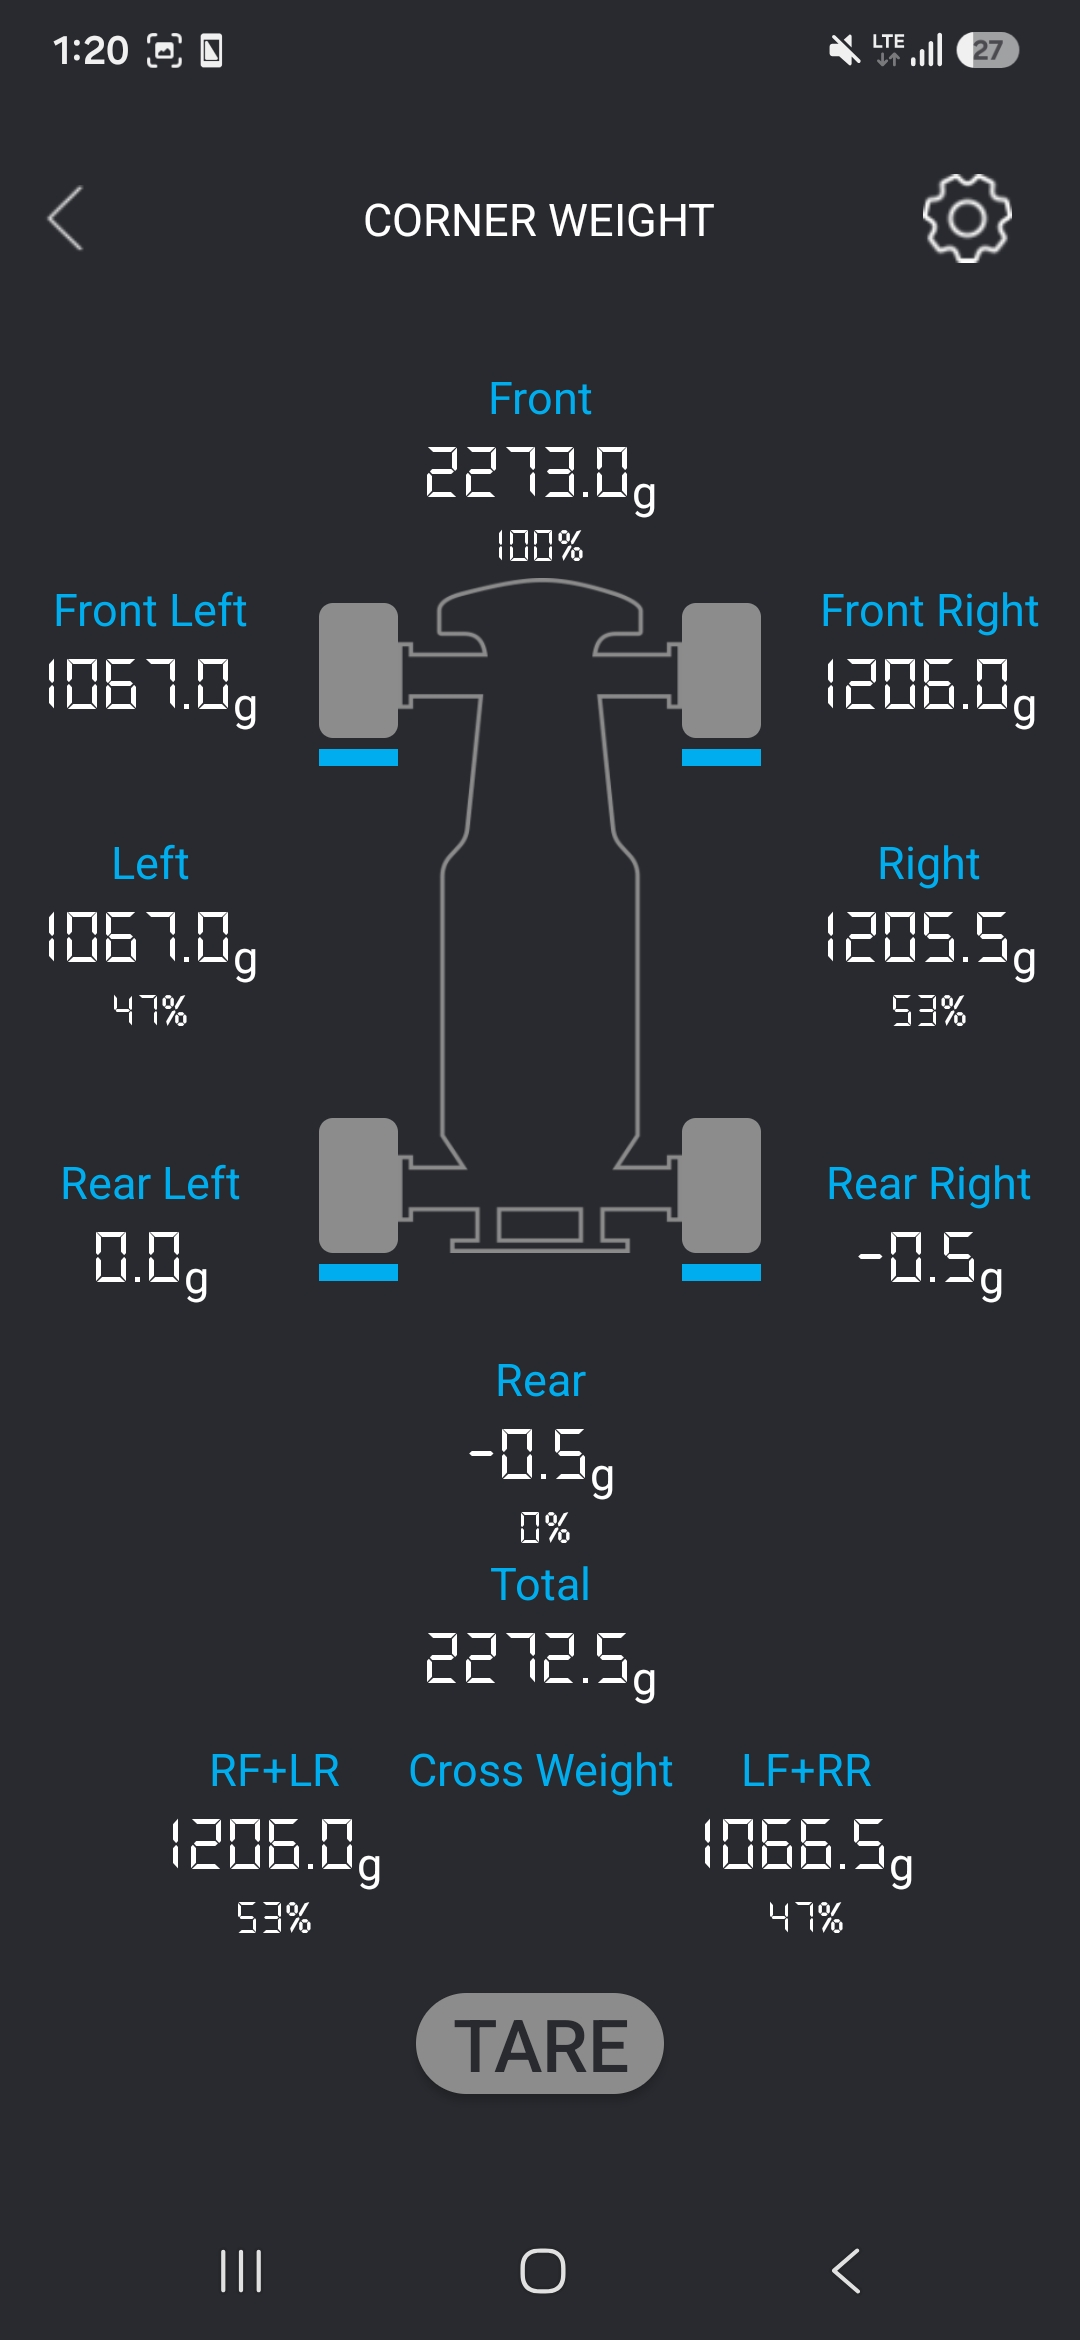
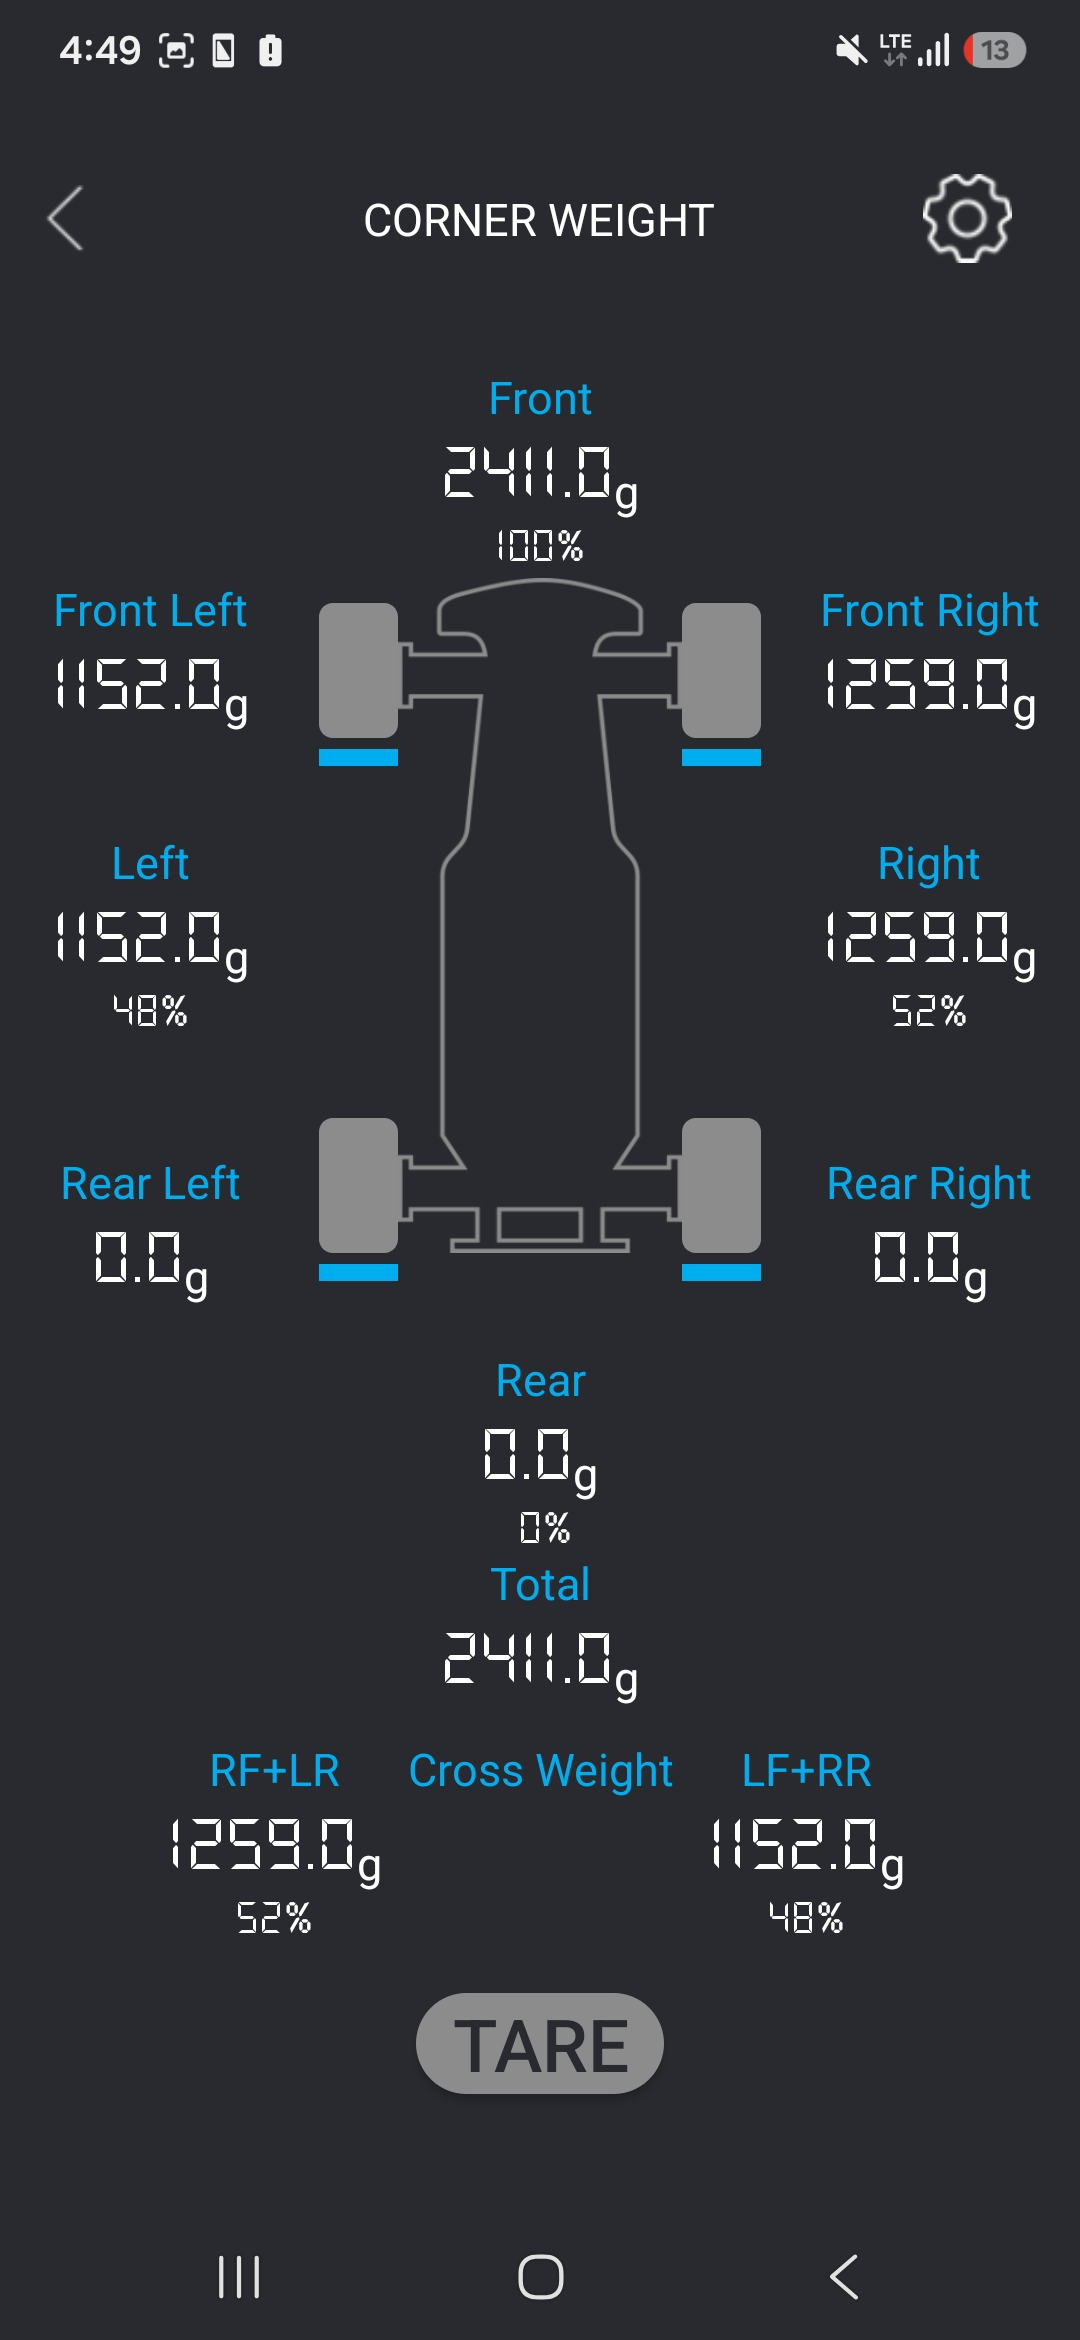
fix: weight

diff --git a/dacerpp_lab/env_cfg.py b/dacerpp_lab/env_cfg.py
@@ -52,8 +52,11 @@ class TireModelCfg:
     #          (EKF 궤적 곡률 x v^2 로도 p99 8.51 로 일치. com_height 가정과 무관한
     #           견고한 하한이다 — a_lat/g 그대로이므로.)
     #     [종] 지속가속 실측 6.08 m/s^2 를 이 모델(뒤축 마찰서클 포함)이 내려면
-    #          mu = 0.99 필요. com_height 를 0.04~0.12 로 흔들어도 0.86~1.08 범위.
-    #   => 실 노면 mu ~= 0.8~1.1. (0.75, 1.10) 이 이를 브래킷하고 양쪽에 여유를 둔다.
+    #          mu = 0.98 필요. com_height 를 0.04~0.12 로 흔들어도 0.86~1.07 범위.
+    #          (2026-08-18 재계측으로 질량 4.532->4.987, lf 0.164->0.171 이 됐는데,
+    #           질량 증가가 필요 구동력을 키우고 뒤축 하중 증가가 그립을 키워 거의
+    #           상쇄된다 — 이 mu 추정은 재계측 전후로 사실상 같다.)
+    #   => 실 노면 mu ~= 0.85~1.07. (0.75, 1.10) 이 이를 브래킷하고 양쪽에 여유를 둔다.
     #   ★ 이 값이 중요한 이유: 아래 f_drive_max/f_brake_max 주석대로 이 차는 대부분의
     #     mu 에서 '힘 상한'이 아니라 '뒤축 마찰서클'에 걸린다. 즉 mu 가 가감속 능력을
     #     직접 정한다. mu 0.60 으로 학습하면 시뮬 차의 가속이 3.35 m/s^2 (실차 6.08 의
@@ -70,25 +73,35 @@ class TireModelCfg:
     alpha_char: float = 0.08       # 특성 슬립각(rad): F_y=-mu*N*tanh(alpha/alpha_char).
                                    # 선형 강성 = mu*N/alpha_char (≈15N/rad/N), 포화 ~9도
                                    # ★ 미확정 — 스키드패드 sub-limit 곡선으로 피팅
-    # ---- 실측 코너웨이트 (2026-08-18, generated/weight_{total,front,rear}.jpg) ----
-    # 네 바퀴 전체: 앞 2280.0g(50%) / 뒤 2252.0g(50%) / 총 4532.0g
-    #   (좌 2202g 49% / 우 2330g 51% — 좌우 불균형은 2D 자전거 모델로는 표현 못 함)
-    # 교차검증: 앞바퀴만 2273.0g + 뒷바퀴만 2235.0g = 4508g vs 전체 4532g (오차 0.5%)
-    # 이력: 3940.6g(0716, 앞 55/뒤 45) -> 4240 추정(0812) -> 4532 실측(0818)
-    #   0812 의 '증가분이 어디에 붙었나' 미지수는 이제 풀렸다: 뒤축이다.
-    #   그 주석이 예측한 '전부 뒤축' 값(lf=0.162, lr=0.168)과 실측(0.164/0.166)이 거의 같다.
-    # ★ assets/f1tenth/f1tenth.urdf 의 base_link mass 를 4.032 로 함께 바꿨다
-    #   (base_link 4.032 + 조향너클 2x0.05 + 바퀴 4x0.1 = 4.532). USD 재생성 필요 —
-    #   재생성 전에는 PhysX 가 여전히 옛 질량으로 적분하므로 '4.53kg 의 그립으로
+    # ---- 실측 코너웨이트 (2026-08-18 재계측, generated/weight_{total,front,rear}.jpg) ----
+    # ★ 배터리를 장착한 '진짜 주행 상태'다. 직전 4532g 측정은 배터리가 빠져 있었다.
+    # 네 바퀴 전체: 앞 2408.0g(48.3%) / 뒤 2579.0g(51.7%) / 총 4987.0g
+    #   (좌 2480g / 우 2507g — 좌우 불균형은 2D 자전거 모델로는 표현 못 함)
+    # 교차검증: 앞바퀴만 2411.0g + 뒷바퀴만 2565.0g = 4976g vs 전체 4987g (오차 0.22%)
+    # 이력: 3940.6g(0716, 앞 55:45) -> 4240 추정(0812) -> 4532 실측(0818, 배터리 없음)
+    #       -> 4987 실측(0818, 배터리 장착)
+    #   배터리 455g 은 앞 128 / 뒤 327 = 28:72 로 뒤쪽에 실린다. 그래서 배분이
+    #   앞55:45(0716) -> 50:50(배터리 없음) -> **앞48.3:51.7(주행 상태)** 로 넘어갔다.
+    # ★ 이 질량이 주행 로그와 일관된 유일한 값이다 — 실차 가감속을 잰 bag 도 배터리를
+    #   달고 달렸으므로, 아래 f_drive_max/f_brake_max 도 이 질량으로 다시 환산했다.
+    # ★ assets/f1tenth/f1tenth.urdf 의 base_link mass 를 4.487 로 함께 바꿨다
+    #   (base_link 4.487 + 조향너클 2x0.05 + 바퀴 4x0.1 = 4.987). USD 재생성 필요 —
+    #   재생성 전에는 PhysX 가 여전히 옛 질량으로 적분하므로 '4.99kg 의 그립으로
     #   4.24kg 를 가속'하는 비물리가 남는다. 절차는 README 의 convert_urdf.py 참조.
-    mass: float = 4.532           # 하중 계산용(kg) — 운동 적분은 PhysX(USD) 질량 사용
-    com_height: float = 0.07       # 무게중심 높이(m): 종방향 하중이동 (★여전히 미실측)
+    mass: float = 4.987           # 하중 계산용(kg) — 운동 적분은 PhysX(USD) 질량 사용
+    # ★ com_height 는 여전히 미실측이다. 2026-08-18 에 기울임법(앞/뒤축을 5.8~15.5cm
+    #   들어 하중이동 측정)을 시도했으나 **서스펜션을 고정하지 않아 실패**했다:
+    #   역산된 h 가 6점에서 -0.3 ~ +1.9cm 로 흩어졌고(바퀴 반경 6cm 보다 낮다 = 불가능),
+    #   두 방향의 추세도 어긋났다. 서스펜션이 기울기의 대부분을 흡수해 차체가 축선만큼
+    #   기울지 않으면 강체 공식의 전제가 깨진다. 재측정 시 반드시 쇼크를 주행
+    #   라이드하이트로 고정할 것 (자세한 진단은 이 대화 기록 참조).
+    com_height: float = 0.07       # 무게중심 높이(m): 종방향 하중이동 (★미실측, 추정 유지)
     # 앞뒤 배분 실측 -> lf = L x 뒤축하중비, lr = L x 앞축하중비 (CoM 모멘트 균형)
-    #   앞축하중비 2280/4532 = 0.5031, 뒤축하중비 2252/4532 = 0.4969
-    # CoM 이 축거 중앙에 거의 정확히 왔다(구 55:45 -> 50:50). 뒤로 15mm 이동했으므로
-    # 구 값보다 오버스티어 경향이 커진다 — k_slip / slip_deadzone 재확인 대상.
-    lf: float = 0.164              # CoM -> 앞축 거리(m) = 0.33 x 0.4969
-    lr: float = 0.166              # CoM -> 뒤축 거리(m) = 0.33 x 0.5031
+    #   앞축하중비 2408/4987 = 0.4829, 뒤축하중비 2579/4987 = 0.5171
+    # CoM 이 축거 중앙보다 5.7mm 뒤에 있다(구 배터리 없음 상태에서는 1mm 앞).
+    # 뒤로 갈수록 오버스티어 경향이 커지므로 k_slip / slip_deadzone 재확인 대상.
+    lf: float = 0.171              # CoM -> 앞축 거리(m) = 0.33 x 0.5171
+    lr: float = 0.159              # CoM -> 뒤축 거리(m) = 0.33 x 0.4829
     k_drive: float = 40.0          # ESC 속도서보 게인 N/(m/s): F_x = k*(v_cmd - vx)
     # ★ k_drive 는 2026-08-18 실차 로그로도 식별 불가였다: 포화 전 선형구간이
     #   f_drive_max/k = 0.7 m/s 뿐인데 그 구간 표본이 거의 없다(레이스 랩은 대부분
@@ -98,29 +111,32 @@ class TireModelCfg:
     #   (점별 미분은 노이즈로 p90 이 부풀려진다 — 에피소드 피팅이 강건하다).
     #   EKF 속도 기준 기울기 p50 +6.08 / max +6.67 m/s^2  (2 -> 5 m/s 구간)
     #   휠오돔 기준은 +6.73 / +7.08 — 차이 0.65 m/s^2 가 구동 슬립이다(EKF 를 채택).
-    #   F = m*a + 구름저항(c_roll*m*g = 0.67N) = 6.08*4.532 + 0.67 = 28.2N
+    #   F = m*(a + c_roll*g) = 4.987*(6.08 + 0.147) = 31.1N   <- 배터리 장착 질량 기준
+    #   (0818 1차에서는 배터리 없는 4.532kg 으로 28.2N 을 냈었다. 주행 로그는 배터리를
+    #    달고 딴 것이므로 4.987kg 이 맞다 — 이 환산이 이번 재계측의 핵심 파급이다.)
     # ★ 2 -> 5 m/s 구간 식별이다. 그 위에서는 역기전력으로 모터가 처질 수 있는데
     #   이 모델은 속도 의존성이 없어 고속 가속을 과대평가할 수 있다 ([M4] 로 확인).
     # ★★ 이 상한은 대부분의 mu 에서 '걸리지 않는다'. 실제로 가감속을 정하는 것은
-    #   뒤축 마찰서클(mu*N_r)이다. 위 모델을 그대로 풀어 본 결과(mass 4.532/lf 0.164/h 0.07):
+    #   뒤축 마찰서클(mu*N_r)이다. 위 모델을 그대로 풀면(mass 4.987/lf 0.171/h 0.07):
     #       mu    가속        제한요인        제동        제한요인
-    #       0.45  2.43 m/s^2  마찰서클       -2.00 m/s^2  마찰서클
-    #       0.60  3.35        마찰서클       -2.59        마찰서클
-    #       0.75  4.35        마찰서클       -3.09        f_brake_max
-    #       0.93  5.61        마찰서클       -3.09        f_brake_max
-    #       1.05  6.18        f_drive_max    -3.09        f_brake_max
-    #   즉 f_drive_max 를 22->28 로 올린 효과는 mu >= 1.0 에서만 나타난다.
+    #       0.55  2.99 m/s^2  마찰서클       -2.63 m/s^2  마찰서클
+    #       0.70  4.00        마찰서클       -2.99        f_brake_max
+    #       0.85  5.08        마찰서클       -2.99        f_brake_max
+    #       0.95  5.85        마찰서클       -2.99        f_brake_max
+    #       1.05  6.09        f_drive_max    -2.99        f_brake_max
+    #   즉 f_drive_max 상향의 효과는 mu >= 1.0 에서만 나타난다. mu 가 가감속을 정한다.
     #   (검증: 구 파라미터 mass 4.24/lf 0.149/22N/mu 1.05 로 이 모델을 풀면 직선제동
     #    -3.80 m/s^2 인데, 시뮬 실측 문서 PART 1-B 의 -3.86 과 일치한다 -> 모델 신뢰 가능.)
-    f_drive_max: float = 28.0      # 구동력 상한(N) ≈ 6.18 m/s^2 @4.532kg (구 22.0)
+    f_drive_max: float = 31.1      # 구동력 상한(N) ≈ 6.09 m/s^2 @4.987kg (구 22.0 -> 28.0)
     # ★2026-08-18 신설: 제동을 구동과 분리했다. 실측 제동은 구동의 절반이다 —
     #   명령이 현재속도보다 낮은 구간에서 p50 -2.0 / p10 -2.8~-3.2 / min -4.80 m/s^2.
     #   지속 가능한 값은 약 3.0 m/s^2 = 13.6N. VESC 속도서보는 강한 역토크를 걸지
     #   않으므로 구동만큼 세게 못 세운다.
-    #   구 코드는 clamp(±f_drive_max) 로 대칭이었다. f_drive_max 를 28 로 올리면서
-    #   대칭을 유지하면 시뮬 제동이 6.18 m/s^2 = 실차의 2배가 되어 '학습에서는 늦게
+    #   구 코드는 clamp(±f_drive_max) 로 대칭이었다. f_drive_max 를 31 로 올리면서
+    #   대칭을 유지하면 시뮬 제동이 6.09 m/s^2 = 실차의 2배가 되어 '학습에서는 늦게
     #   밟아도 서는데 실차에서는 못 서는' 최악의 방향으로 어긋난다.
-    f_brake_max: float = 14.0      # 제동력 상한(N) ≈ 3.09 m/s^2 @4.532kg
+    #   F = m*(a - c_roll*g) = 4.987*(3.00 - 0.147) = 14.2N  (구름저항이 제동을 돕는다)
+    f_brake_max: float = 14.2      # 제동력 상한(N) ≈ 2.99 m/s^2 @4.987kg (구 14.0)
                                    # (제동은 추가로 뒤축 마찰서클 μN_r 제한도 받는다)
     c_roll: float = 0.015          # 구름저항 계수
     v_lat_taper: float = 0.3       # 저속 횡력 테이퍼(m/s): 정지 시 조향만으로
